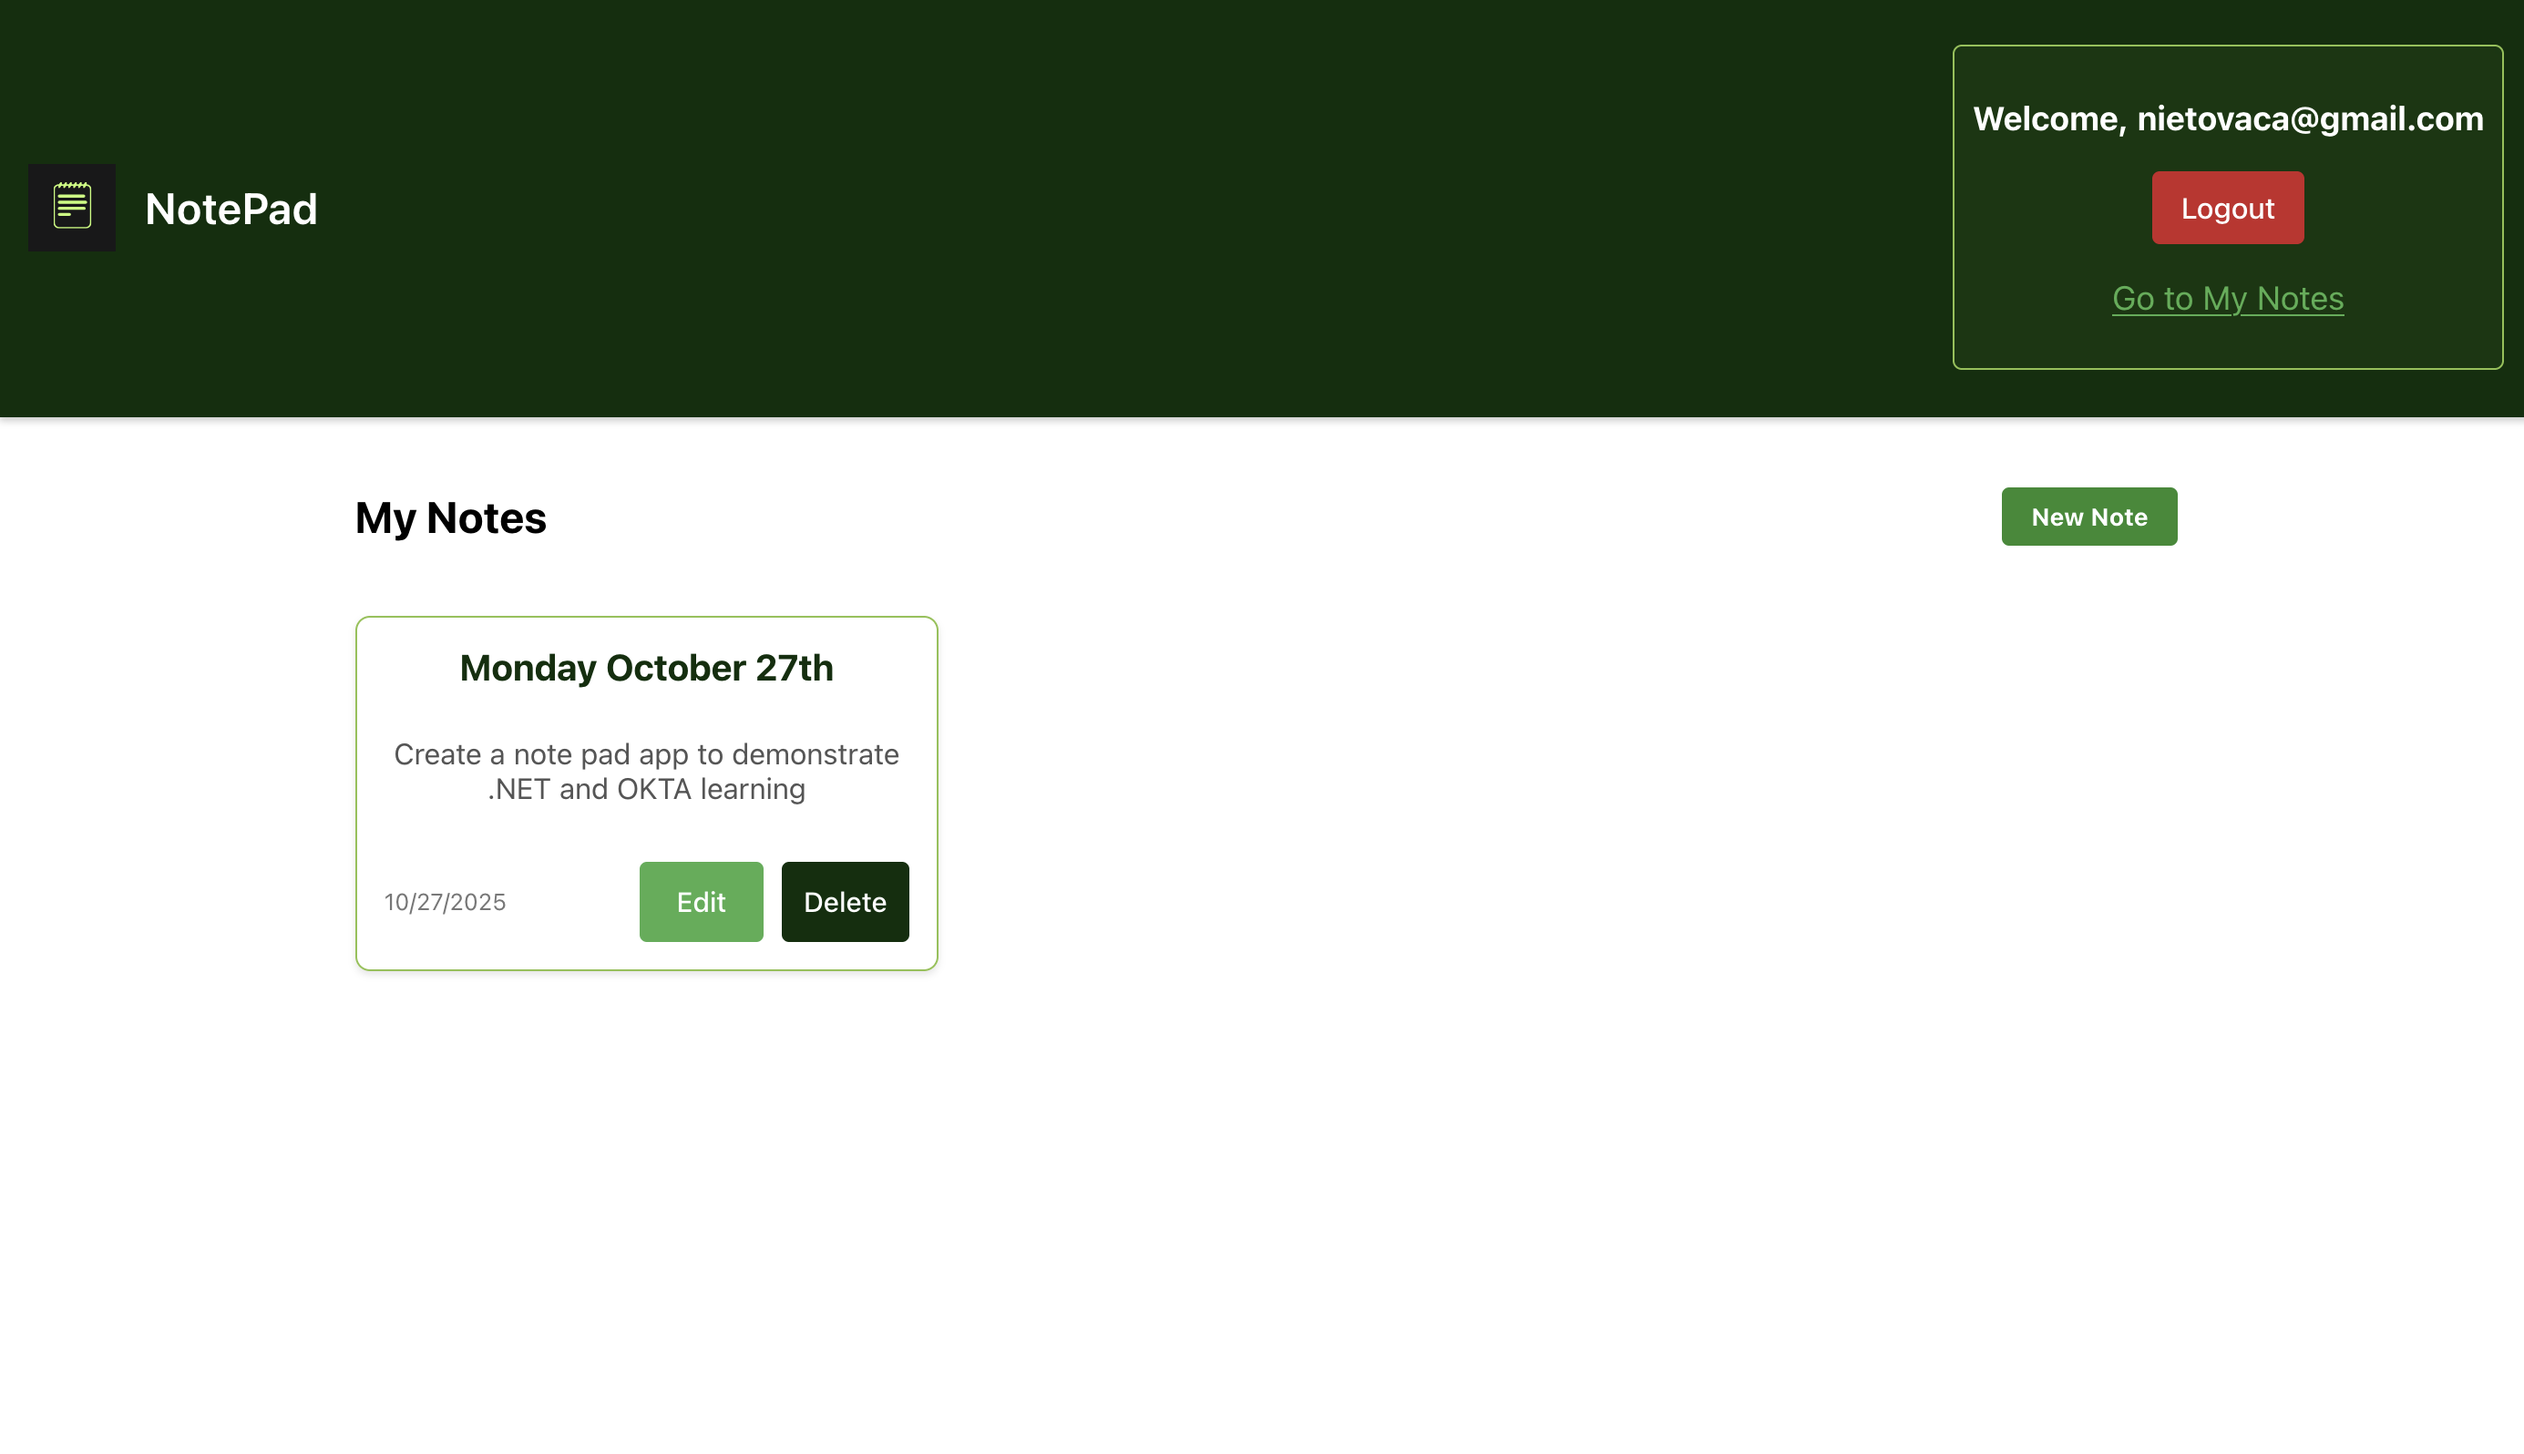
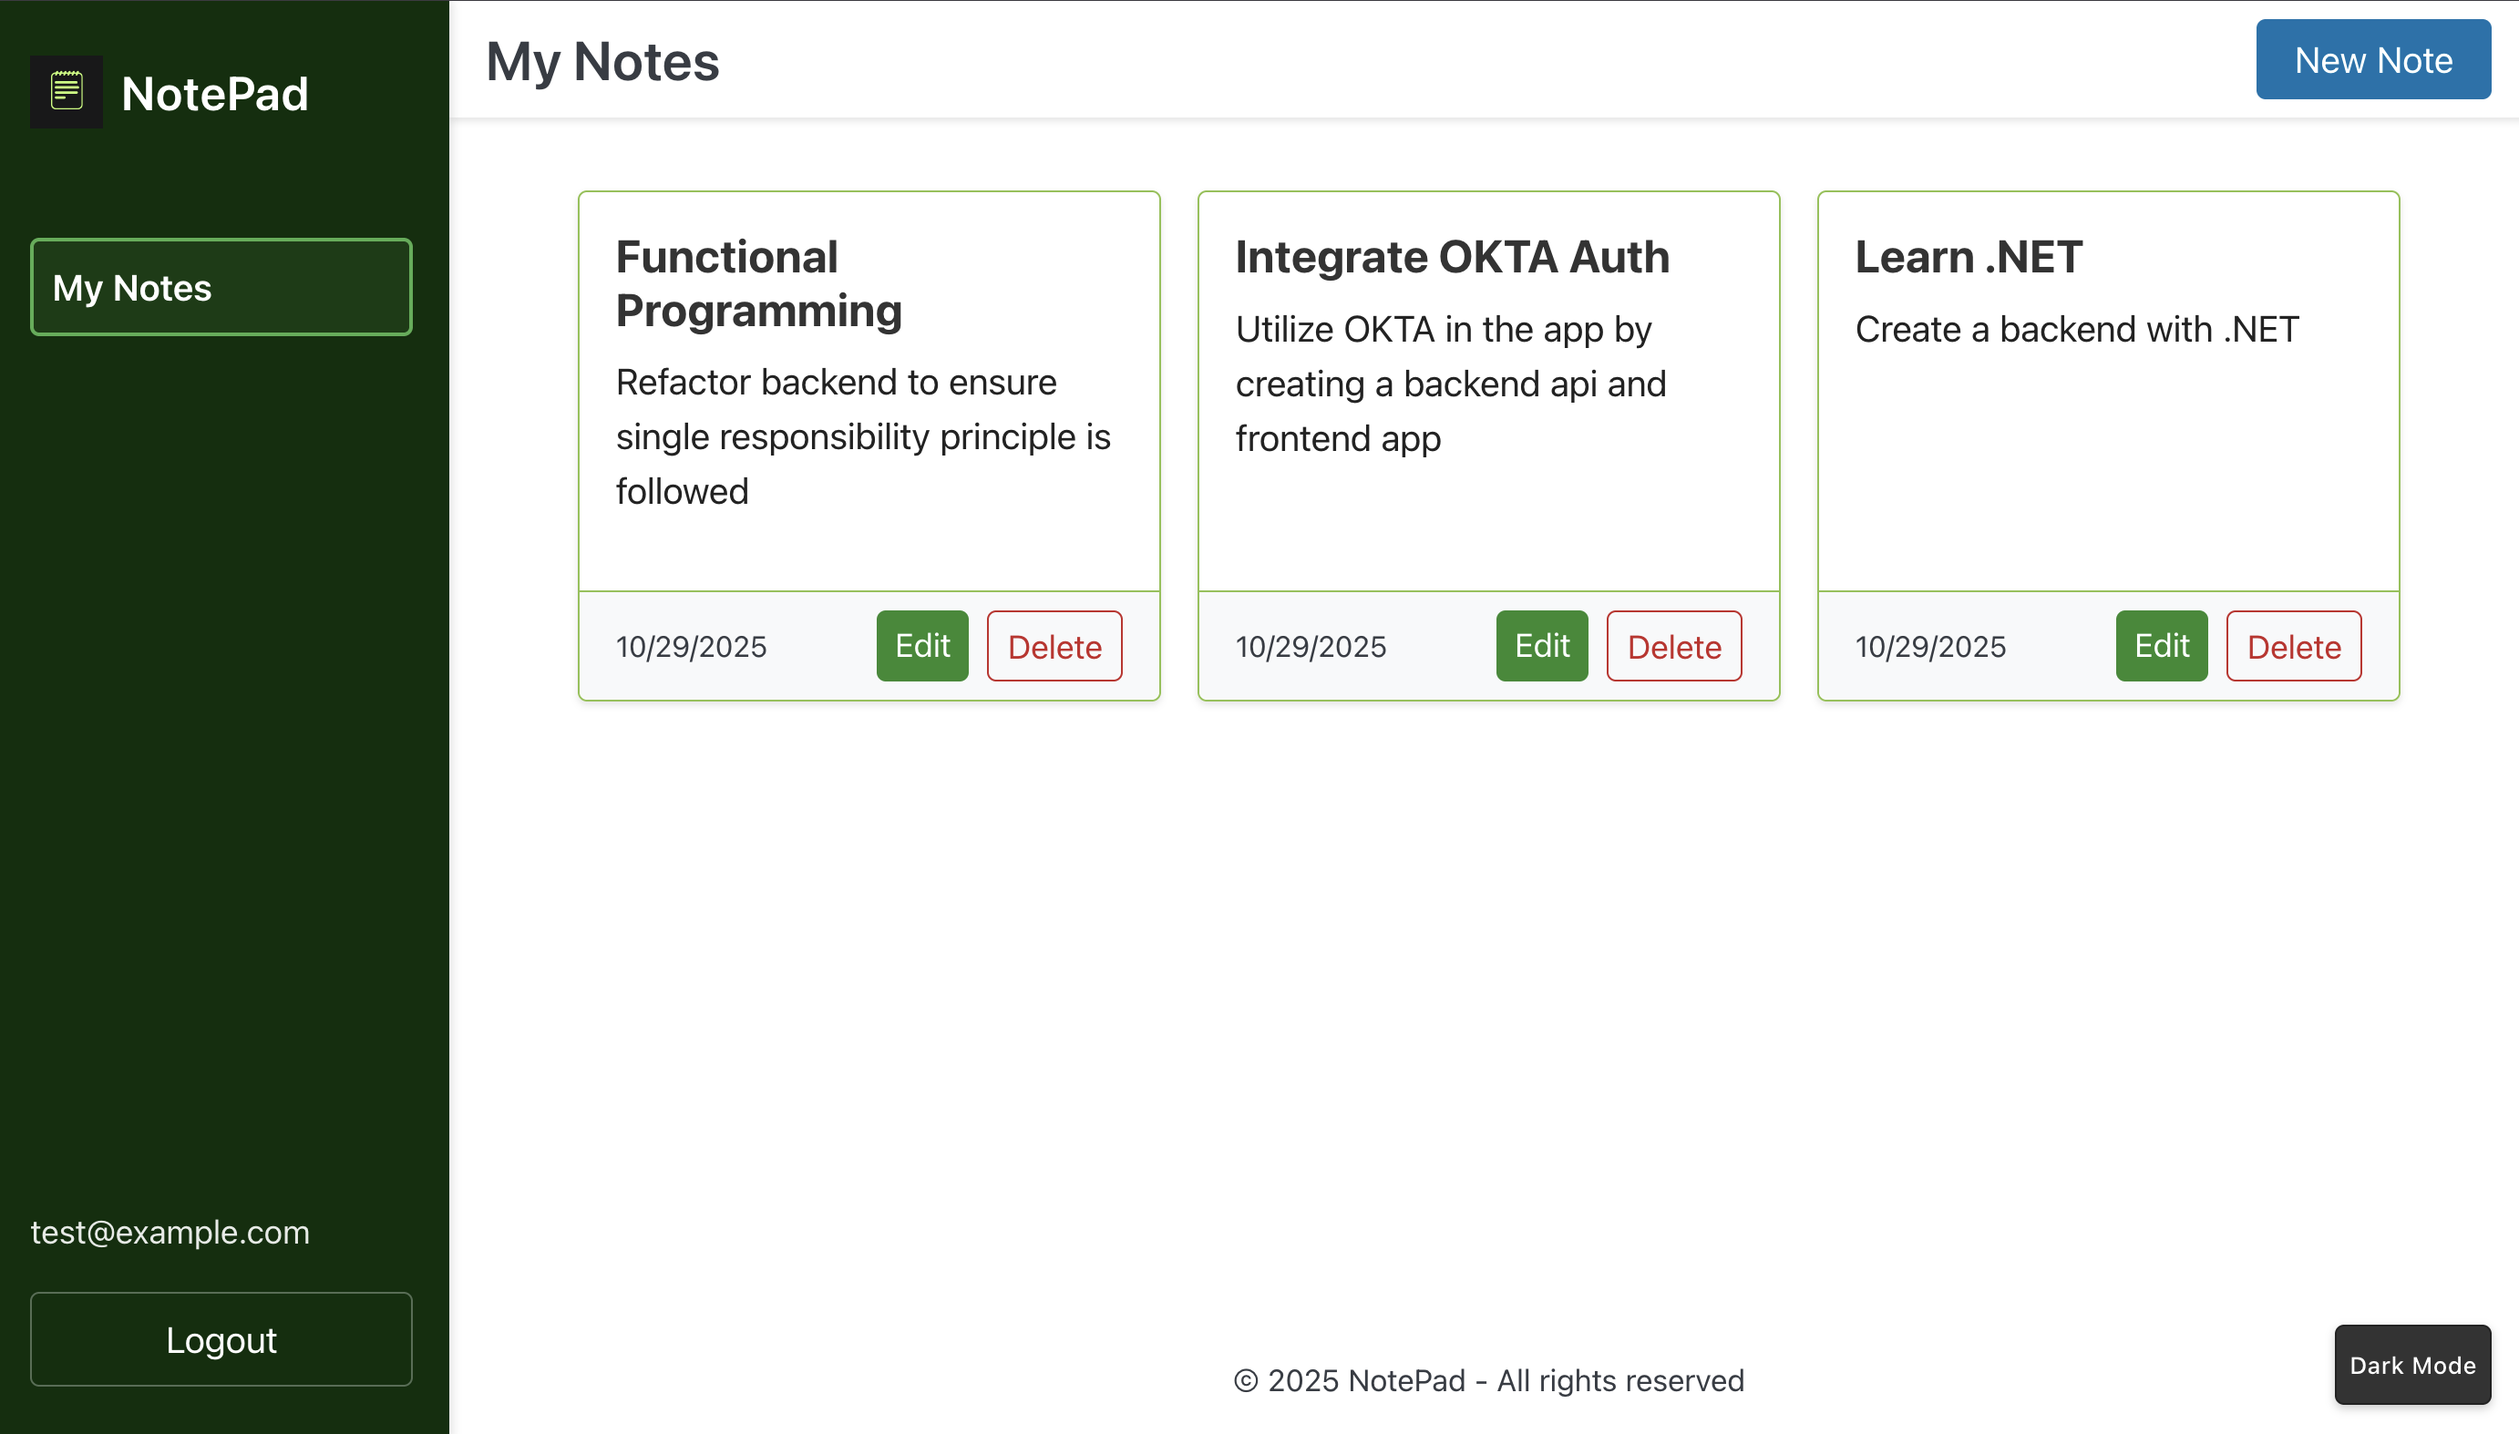
Fix startup script and improve README for local development
- Fix directory navigation in start.sh using absolute paths
- Add port conflict handling to automatically free up required ports
- Update README with clear one-command instructions
- Add troubleshooting section to README
- Update screenshot

diff --git a/README.md b/README.md
@@ -4,9 +4,18 @@ A modern note-taking application with a .NET backend API and React frontend, fea
 
 ![NotePad App](/frontend/public/notepad-screenshot.png)
 
+## Test Credentials
+
+For testing purposes, you can use these pre-configured credentials:
+
+- **Email**: `test@example.com`
+- **Password**: Test123!
+
+Or you can register a new account during the login process.
+
 ## Quick Start for Testing
 
-### Option 1: One-Command Startup (Recommended)
+### One-Command Startup
 
 Run the entire application (both backend and frontend) with a single command:
 
@@ -15,12 +24,18 @@ Run the entire application (both backend and frontend) with a single command:
 ```
 
 This script will:
-1. Start the .NET backend API
-2. Start the React frontend
-3. Open the application in your default browser
-4. Handle proper shutdown of both services when terminated
 
-### Option 2: Manual Setup
+1. Check if you have the required dependencies (.NET SDK and npm)
+2. Build and start the .NET backend API
+3. Install frontend dependencies if needed
+4. Start the React frontend
+5. Open the application in your default browser at `http://localhost:3000`
+6. Handle proper shutdown of both services when terminated with Ctrl+C
+7. Automatically handle port conflicts by stopping any existing process using the required ports
+
+> **Note:** If the script doesn't have execute permissions, run `chmod +x run-app start.sh` first.
+
+### Alternative Manual Setup
 
 If you prefer to start the services separately, follow these steps:
 
@@ -29,6 +44,8 @@ If you prefer to start the services separately, follow these steps:
 - [.NET 9.0 SDK](https://dotnet.microsoft.com/download/dotnet/9.0)
 - [Node.js](https://nodejs.org/) (v16 or later)
 - [npm](https://www.npmjs.com/) (v7 or later)
+
+> **Note:** These dependencies are automatically checked by the one-command startup script.
 
 #### Backend Setup
 
@@ -45,9 +62,11 @@ If you prefer to start the services separately, follow these steps:
    ```
 
 3. Run the .NET Web API:
+
    ```bash
    dotnet run
    ```
+
    The API will be available at `https://localhost:7194` and `http://localhost:5194`
 
 #### Frontend Setup
@@ -65,16 +84,18 @@ If you prefer to start the services separately, follow these steps:
    ```
 
 3. Start the React development server:
+
    ```bash
    npm start
    ```
+
    The application will open automatically in your browser at `http://localhost:3000`
 
 ## Authentication
 
 This application uses Auth0 for authentication. For testing purposes, you can use the following credentials:
 
-- **Email**: test@example.com
+- **Email**: `test@example.com`
 - **Password**: Test123!
 
 Or you can register a new account during the login process.
@@ -124,8 +145,8 @@ Or you can register a new account during the login process.
 
 The application is configured to run in a development environment with the following settings:
 
-- Backend API: http://localhost:5194
-- Frontend: http://localhost:3000
+- Backend API: `http://localhost:5194`
+- Frontend: `http://localhost:3000`
 - CORS is enabled between these origins
 
 ### Auth0 Configuration
@@ -170,15 +191,15 @@ cd frontend
 npm run build
 ```
 
-### Deployment
+### Running Locally
 
-After building both the backend and frontend, you can deploy the application to your preferred hosting environment. For local deployment testing, you can use the provided startup script:
+The simplest way to run the application locally is using the provided startup script:
 
 ```bash
 ./run-app
 ```
 
-This script handles starting both the backend and frontend services with proper initialization order and shutdown handling.
+This single command handles starting both the backend and frontend services with proper initialization order and shutdown handling. It's the recommended method for hiring managers and reviewers to test the application quickly.
 
 ## Tech Stack
 
@@ -192,4 +213,24 @@ This project is licensed under the MIT License - see the LICENSE file for detail
 
 ---
 
-Thank you for reviewing my NotePad application! If you have any questions or need further assistance setting it up, please don't hesitate to reach out.
+Thank you for reviewing my NotePad application!
+
+**To run the application with a single command:**
+
+```bash
+./run-app
+```
+
+This will start both the backend and frontend, and open the application in your browser automatically.
+
+## Troubleshooting
+
+If you encounter any issues running the application:
+
+1. **Port already in use**: The script will automatically attempt to free up the required ports (5194 for backend, 3000 for frontend).
+
+2. **Directory navigation errors**: Make sure you're running the script from the root directory of the project.
+
+3. **Permission denied**: Run `chmod +x run-app start.sh` to give the scripts execute permissions.
+
+If you have any other questions, please don't hesitate to reach out.
